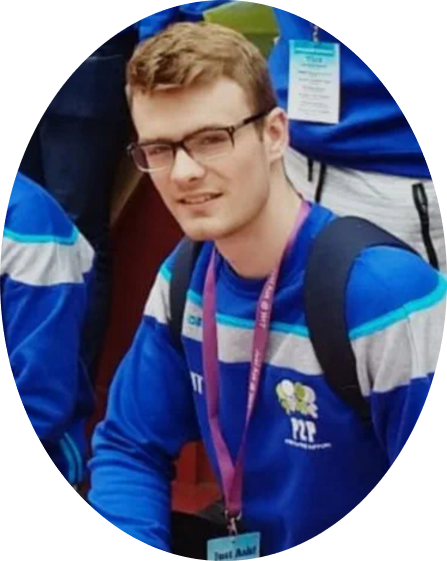
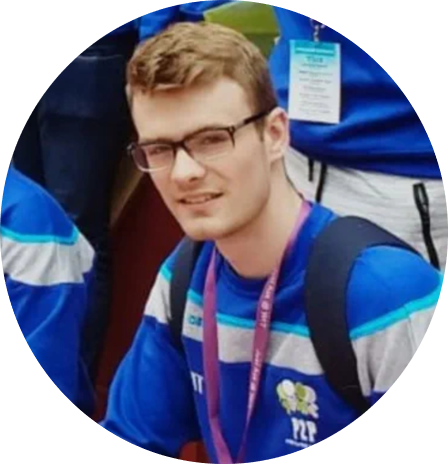
Add hero image to intro section

diff --git a/assets/css/style.css b/assets/css/style.css
@@ -27,6 +27,11 @@ h3 {
     display: block;
 }
 
+ul {
+    list-style-type: none;
+    padding: 0;
+}
+
 /* Styiling for section headings */
 span {
     width: 100%;
@@ -34,12 +39,6 @@ span {
 
 .col-2, .col-5 {
     margin: auto;
-}
-
-
-ul {
-    list-style-type: none;
-    padding: 0;
 }
 
 hr {
@@ -69,7 +68,6 @@ hr {
 /* Navbar */
 nav {
     border-bottom: solid 1px #66fcf1;
-    margin-bottom: 2rem;
 }
 
 .nav-list {
@@ -124,15 +122,24 @@ a:hover {
 
 /* Intro section */
 #intro-section {
-    height: 40vw;
+    height: 600px;
+}
+
+.hero-image {
+    background-image: url("../images/hero-image.jpg");
+    background-size: cover;
+    background-repeat: no-repeat;
 }
 
 #portrait {
-    width: 60%;
+    width: 70%;
+    max-width: 350px;
+    border: solid 1px #66fcf1;
+    border-radius: 50%;
 }
 
 #portrait-span {
-    margin-left: 30%;
+    margin-left: 20%;
 }
 
 /* Projects section */

diff --git a/index.html b/index.html
@@ -27,13 +27,13 @@
         </header>
 
         <main class="container-fluid">
-            <section class="row" id="intro-section">
+            <section class="row hero-image" id="intro-section">
                 <div class="col-6">
                     <h1>Hello, my name is William Wren</h1>
                     <h2>Software Developer</h2><br>
                     <p>I am a full-stack software developer with a background in sports science.</p>
                 </div>
-                <div class="col-6">
+                <div class="col-6 my-auto" id="portrait-div">
                     <span id="portrait-span"><img src="assets/images/portrait.png" id="portrait" alt="self portrait"></span>
                 </div>
             </section>
